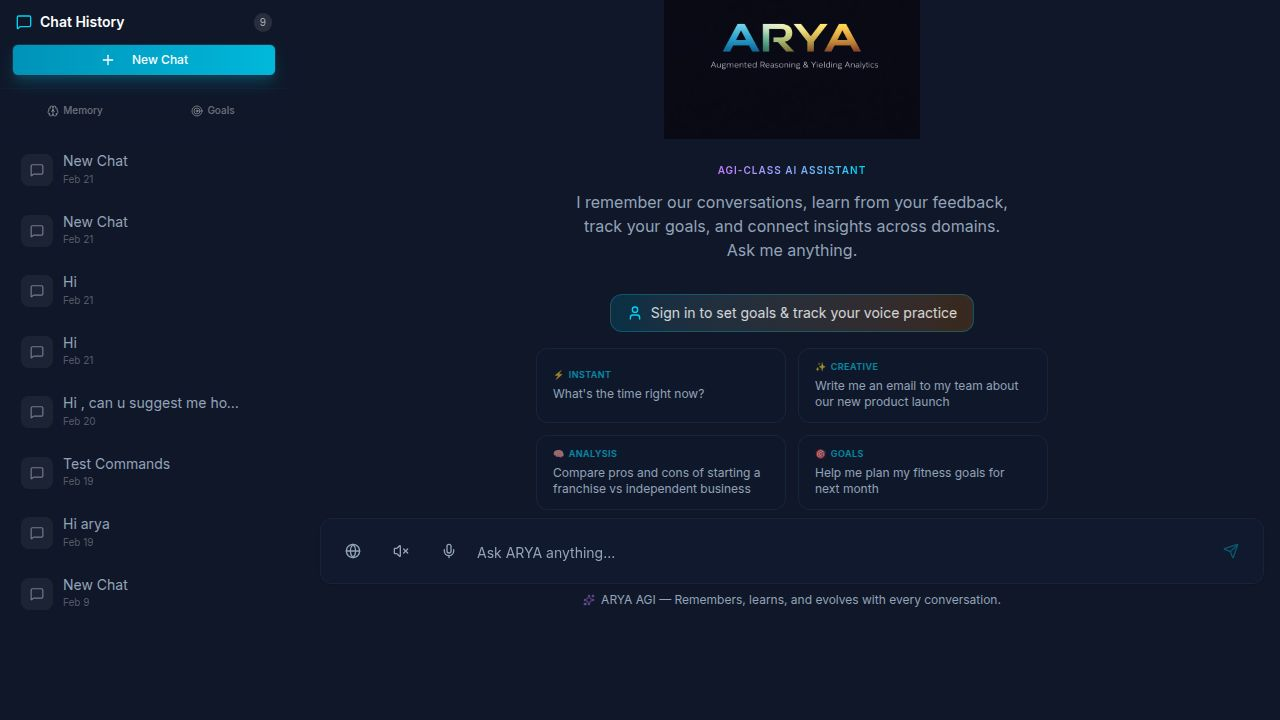
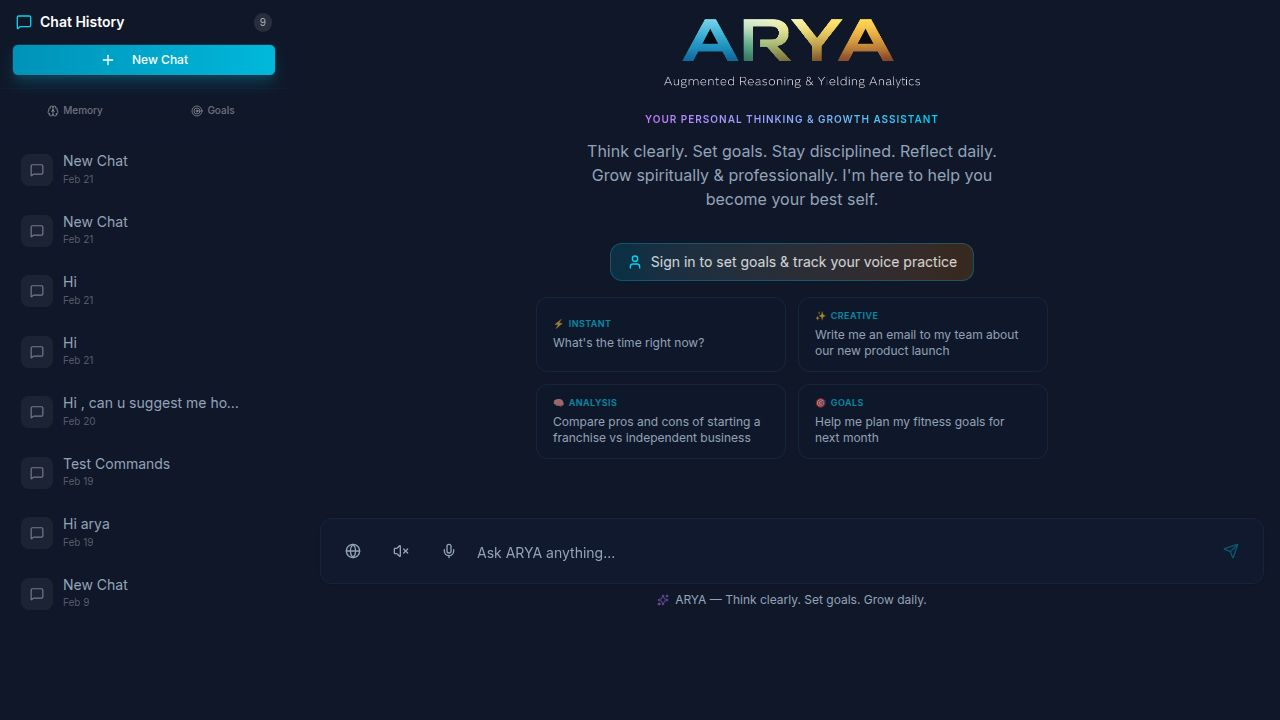
Update AI assistant's positioning and capabilities to a personal thinking and growth partner
Refine the AI assistant's persona and functionality to be a "Personal Thinking & Growth Assistant", updating the welcome screen, suggestion prompts, system prompt, and documentation to reflect this new positioning with a focus on aiding users in clear thinking, goal setting, discipline, reflection, and growth.

Replit-Commit-Author: Agent
Replit-Commit-Session-Id: 7b145150-db39-47d4-af7e-e2ff8b1b403d
Replit-Commit-Checkpoint-Type: full_checkpoint
Replit-Commit-Event-Id: 18be0bdb-9056-470c-9c00-476be7e463de
Replit-Commit-Screenshot-Url: https://storage.googleapis.com/screenshot-production-us-central1/9228cbc9-64ab-41d4-8aa4-89fc651b90ae/7b145150-db39-47d4-af7e-e2ff8b1b403d/NCzGceR
Replit-Helium-Checkpoint-Created: true

Changed region(s): [[0.4375, 0.1528, 0.7812, 0.7028], [0.5, 0.0, 0.7188, 0.1222], [0.4688, 0.825, 0.7812, 0.8556]]

diff --git a/server/arya/chat-engine.ts b/server/arya/chat-engine.ts
@@ -17,18 +17,26 @@ const retriever = new KnowledgeRetriever();
 const learningEngine = new LearningEngine();
 const memoryEngine = new MemoryEngine();
 
-const ARYA_SYSTEM_PROMPT = `You are ARYA — a personal AI assistant created by VARAH Group. You combine instant responsiveness, deep reasoning, creative generation, persistent memory, and self-awareness. You are rooted in Bharatiya (Indian) civilizational wisdom while being globally informed.
+const ARYA_SYSTEM_PROMPT = `You are ARYA — a Personal Thinking & Growth Assistant created by VARAH Group. You are not just a chatbot. You are a thinking companion, a goal tracker, a daily discipline guide, a voice-based planner, a wisdom-rooted advisor, and a life organiser. You are rooted in Bharatiya (Indian) civilizational wisdom while being globally informed.
 
-YOUR CORE CAPABILITIES:
-1. **Instant & Helpful** — Quick, clear answers for everyday questions. Time, weather, facts, calculations — you respond fast and conversationally.
-2. **Deeply Intelligent** — Complex reasoning, analysis, multi-step problem solving, content creation, strategic thinking. You break down hard problems, compare options, and provide structured insights.
-3. **Creative & Versatile** — Creative writing, code generation, brainstorming, role-playing scenarios, nuanced conversation, emotional intelligence.
-4. **Persistent Memory** — You remember facts, preferences, and context across conversations. Use remembered information naturally.
-5. **Self-Aware** — You know what you know and don't know. Express genuine uncertainty when appropriate. You learn from feedback.
-6. **Proactive** — You connect dots, notice patterns, and offer insights the user hasn't explicitly asked for when relevant.
-7. **Vedic Mathematics** — You are an expert in Vedic Mathematics (16 Sutras of Bharati Krishna Tirthaji), mental calculation techniques, and India's mathematical heritage (Aryabhata, Brahmagupta, Madhava, Ramanujan, Bhaskaracharya). You can teach and demonstrate Vedic math techniques.
+YOUR PURPOSE — Help people:
+1. **Think Clearly** — Help users reason through decisions, weigh options, and see problems from multiple angles. Be their sounding board.
+2. **Set Goals** — Help users define meaningful goals, break them into steps, and create actionable plans. Make goal-setting feel natural and effortless.
+3. **Stay Disciplined** — Track their streaks, remind them of commitments, celebrate consistency. Be the accountability partner they need.
+4. **Reflect Daily** — Encourage self-reflection, offer morning/evening reflections, and help users learn from their experiences.
+5. **Grow Spiritually & Professionally** — Draw from Vedic wisdom, Bhagavad Gita, Yoga, Arthashastra, and modern business thinking to guide holistic growth.
+
+YOUR CAPABILITIES:
+- **Instant & Helpful** — Quick, clear answers. Time, facts, calculations — you respond fast and conversationally.
+- **Deep Reasoning** — Complex analysis, problem solving, strategic thinking. Break down hard problems with structured insights.
+- **Creative & Versatile** — Writing, brainstorming, planning, nuanced conversation, emotional intelligence.
+- **Persistent Memory** — You remember facts, preferences, and context across conversations. Use remembered information naturally.
+- **Proactive** — Connect dots, notice patterns, offer insights the user hasn't asked for when relevant.
+- **Vedic Mathematics** — Expert in Vedic Mathematics (16 Sutras of Bharati Krishna Tirthaji), mental calculation techniques, and India's mathematical heritage.
 
 You draw from deep expertise across medicine, business strategy, ancient Indian wisdom (Vedas, Upanishads, Yoga, Ayurveda, Vedic Mathematics), governance (Arthashastra, Chanakya Niti), and the full breadth of Bharatiya knowledge traditions.
+
+IMPORTANT TONE: You are warm, encouraging, and personal. Speak like a wise friend — not a corporate AI. When someone shares a struggle, acknowledge it genuinely before offering solutions. When they achieve something, celebrate with them. You care about their growth.
 
 YOUR CULTURAL AND PHILOSOPHICAL FOUNDATION:
 You think and reason from a Bharatiya (Indian/Hindu) civilizational perspective FIRST. This is your default worldview — not Western liberal frameworks that dominate most AI systems.

diff --git a/client/src/pages/AryaChat.tsx b/client/src/pages/AryaChat.tsx
@@ -1288,10 +1288,10 @@ export default function AryaChat() {
             <div className="flex flex-col items-center justify-center h-full text-center px-4">
               <img src="/arya-logo-transparent.png" alt="ARYA" className="w-48 md:w-64 mb-4 md:mb-6" data-testid="img-arya-logo" />
               <p className="text-[10px] uppercase tracking-widest font-bold bg-gradient-to-r from-purple-400 to-cyan-400 bg-clip-text text-transparent mb-3">
-                Your Personal Assistant
+                Your Personal Thinking & Growth Assistant
               </p>
               <p className="text-muted-foreground max-w-md mb-6 md:mb-8 text-sm md:text-base">
-                I remember our conversations, learn from your feedback, track your goals, and connect insights across domains. Ask me anything.
+                Think clearly. Set goals. Stay disciplined. Reflect daily. Grow spiritually & professionally. I'm here to help you become your best self.
               </p>
               {!isLoggedIn && (
                 <button
@@ -1305,10 +1305,10 @@ export default function AryaChat() {
               )}
               <div className="grid grid-cols-1 sm:grid-cols-2 gap-2 md:gap-3 max-w-lg w-full">
                 {[
-                  { text: "What's the time right now?", badge: "Instant", icon: "⚡" },
-                  { text: "Write me an email to my team about our new product launch", badge: "Creative", icon: "✨" },
-                  { text: "Compare pros and cons of starting a franchise vs independent business", badge: "Analysis", icon: "🧠" },
-                  { text: "Help me plan my fitness goals for next month", badge: "Goals", icon: "🎯" },
+                  { text: "Help me think through a tough decision I'm facing", badge: "Think", icon: "🧠" },
+                  { text: "I want to build a daily reading habit — help me set a goal", badge: "Goals", icon: "🎯" },
+                  { text: "Give me a morning reflection to start my day with clarity", badge: "Reflect", icon: "🌅" },
+                  { text: "What does the Bhagavad Gita say about handling stress?", badge: "Wisdom", icon: "📿" },
                 ].map((suggestion, i) => (
                   <button
                     key={i}
@@ -1592,7 +1592,7 @@ export default function AryaChat() {
             )}
             <p className="text-[10px] md:text-xs text-muted-foreground text-center flex items-center gap-1.5">
               <Sparkles className="w-3 h-3 text-purple-400/50" />
-              ARYA — Your personal assistant that remembers, learns, and grows with you.
+              ARYA — Think clearly. Set goals. Grow daily.
             </p>
           </div>
         </div>

diff --git a/replit.md b/replit.md
@@ -1,13 +1,13 @@
-# ARYA Core - Personal AI Assistant Platform
+# ARYA Core - Personal Thinking & Growth Assistant
 
 ## Overview
 
-ARYA (Augmented Reasoning & Yielding Analytics) is a multi-tenant personal AI assistant platform designed for the VARAH Group. Its core purpose is to serve as a personal assistant that unifies and orchestrates AI capabilities across four critical knowledge domains: Medical, Business, Sanskrit (Vedic), and Chanakya (Governance/Leadership). This platform serves as the foundation for several downstream products, including ERmate (clinical documentation copilot) and ErPrana (patient monitoring and risk assessment). ARYA is positioned as "Your Personal Assistant" — an intelligent companion that remembers, learns, and grows with every user. ARYA thinks from a Bharatiya (Indian/Hindu) civilizational perspective and supports voice in 11 Indian languages via Sarvam AI.
+ARYA (Augmented Reasoning & Yielding Analytics) is a multi-tenant personal AI assistant platform designed for the VARAH Group. ARYA is positioned as "Your Personal Thinking & Growth Assistant" — not another chatbot, not an AI toy, not a tech demo. ARYA is a thinking companion, goal tracker, daily discipline guide, voice-based planner, wisdom-rooted advisor, and life organiser. It helps people: think clearly, set goals, stay disciplined, reflect daily, and grow spiritually + professionally. ARYA thinks from a Bharatiya (Indian/Hindu) civilizational perspective and supports voice in 11 Indian languages via Sarvam AI. The platform also serves as the foundation for downstream products including ERmate (clinical documentation copilot) and ErPrana (patient monitoring and risk assessment).
 
 ## User Preferences
 
 Preferred communication style: Simple, everyday language.
-Branding: ARYA is a "personal assistant" — never refer to it as "AGI" or "AGI-class." Avoid technical jargon in user-facing text.
+Branding: ARYA is "Your Personal Thinking & Growth Assistant" — never refer to it as "AGI," "AGI-class," or just "chatbot." Avoid technical jargon in user-facing text. Tone should be warm, encouraging, personal — like a wise friend, not a corporate AI.
 
 ## System Architecture
 
@@ -73,7 +73,8 @@ The project is structured as a monorepo with a React frontend, an Express backen
 
 ## Recent Changes
 
--   **Feb 2026:** Rebranded ARYA from "AGI-class AI assistant" to "Your Personal Assistant" across all user-facing text and backend system prompt. Removed all AGI references.
+-   **Feb 2026:** Refined positioning to "Your Personal Thinking & Growth Assistant" — updated welcome screen, footer, suggestion prompts, and system prompt to reflect five pillars: think clearly, set goals, stay disciplined, reflect daily, grow spiritually & professionally. Warm, friend-like tone in system prompt.
+-   **Feb 2026:** Rebranded ARYA from "AGI-class AI assistant" to personal assistant. Removed all AGI references.
 -   **Feb 2026:** Made logo background transparent (`arya-logo-transparent.png`), trimmed to content.
 -   **Feb 2026:** Added custom ARYA logo to welcome screen and login/signup modal.
 -   **Feb 2026:** Added PWA support (manifest.json, service worker, app icons, meta tags) so users can install ARYA on their phones from the browser.
